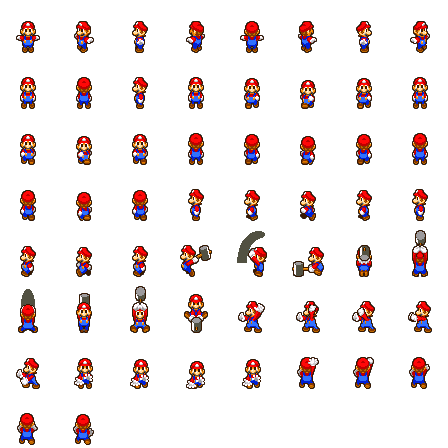
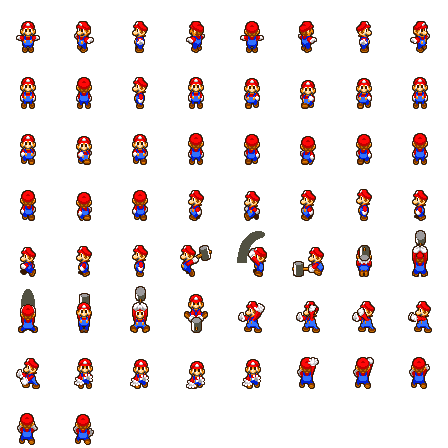
Round 5: both brothers' walk cycles reversed, Naruto up-profile, animated Strike Raid, Pokemon music
- Mario AND Luigi side walks were backwards (the user watched the probe
  captures live and caught Mario too): the sheet's side rows are authored
  right-to-left for both characters — both cycles now play reversed.
  Verified with in-game frame-sequence strips (tests/walkcycle_capture).
- Naruto's movement "spin" root-caused: his rip has no back-view frames,
  so walking up played FRONT frames and flickered against side frames on
  diagonals. Up movement now uses his side profile; flicker impossible.
- Strike Raid throws the real 11-frame spinning keyblade: new
  strike_raid_spin.png strip + animated-projectile support in
  _spawn_projectile (sprite_frames/sprite_fps on the special def).
- Pokemon dungeon music: user's track renamed to dungeon_pokemon.mp3 (the
  AudioManager naming) with a new per-track "start" offset — playback and
  every loop skip the first 30 seconds (loop_offset), per user request.
- Boot + parse green.

Scoped commit; concurrent session active in this checkout.

diff --git a/tools/prep_sora_v2.py b/tools/prep_sora_v2.py
@@ -186,7 +186,18 @@ def stage_build() -> None:
     with open(MANIFEST, "w", encoding="utf-8", newline="\n") as f:
         f.write(json.dumps(manifest, indent=1) + "\n")
     print(f"  roll preserved as frames {indices}")
-    # 4. Strike Raid projectile sprite from the special section
+    # 4. Strike Raid projectile: the full 11-frame spinning-keyblade strip
+    # (playtest round 5: a single static frame read as "not working")
+    spin_cells = [f"r0c{c}" for c in range(5, 16)]
+    boxes2 = [named[c] for c in spin_cells]
+    cw2 = max(b[2] - b[0] for b in boxes2)
+    ch2 = max(b[3] - b[1] for b in boxes2)
+    spin = Image.new("RGBA", (cw2 * len(boxes2), ch2), (0, 0, 0, 0))
+    for n, b in enumerate(boxes2):
+        crop = img.crop(b)
+        spin.alpha_composite(crop, (n * cw2 + (cw2 - crop.width) // 2, (ch2 - crop.height) // 2))
+    spin.save(BLADE.parent / "strike_raid_spin.png")
+    print(f"  spin strip {len(boxes2)}x1 cells of {cw2}x{ch2} -> strike_raid_spin.png")
     if BLADE_CELL:
         blade = img.crop(named[BLADE_CELL])
         blade.save(BLADE)

diff --git a/tools/prep_mario_luigi_v2.py b/tools/prep_mario_luigi_v2.py
@@ -93,9 +93,10 @@ def stage_grid() -> None:
 def _char_picks(p: str, melee_down_seq: list, special_down_seq: list) -> dict:
     dodge = ({"roll": [f"mr11c{c}" for c in range(8)]} if p == "m"
              else {"roll_side": [f"lr11c{c}" for c in range(4)]})
-    # playtest: Luigi's side cycle is authored right-to-left on the sheet —
-    # played forward it moonwalks; reverse the frame order (Mario's is fine)
-    side_cols = list(range(8)) if p == "m" else list(range(7, -1, -1))
+    # playtest rounds 3+5: BOTH brothers' side cycles are authored
+    # right-to-left on the sheet (user watched the probe run and confirmed
+    # Mario too) — play them reversed
+    side_cols = list(range(7, -1, -1))
     return {
         "cell": (56, 56),
         "anims": dodge | {

diff --git a/PLAYTEST_NOTES.md b/PLAYTEST_NOTES.md
@@ -53,6 +53,22 @@
   (`combat_hero.gd::dodge_cooldown`) — block + expiry proven headless
   (`tests/dodge_cooldown_probe.tscn`).
 
+### Round 5 (same day): walk cycles, Strike Raid animation, dungeon music
+
+- **Mario AND Luigi side walks played backwards** (user watched the probe
+  run live and caught Mario too): both sheet rows are authored
+  right-to-left — both cycles now reversed. Verified with in-game
+  frame-sequence strips (`tests/walkcycle_capture.tscn`).
+- **Naruto's "spin"** root-caused: his thin rip has NO back-view frames,
+  so up-movement played front frames and flickered against side frames on
+  diagonals. Up now uses the side profile — flicker impossible.
+- **Strike Raid** now throws the full 11-frame spinning keyblade
+  (strike_raid_spin.png; Projectile "sprite" + sprite_frames/sprite_fps
+  in heroes.json) instead of a single static frame.
+- **Pokémon dungeon music**: user's track wired as dungeon_pokemon.mp3
+  with a new per-track "start" offset (30s — intro skipped on play AND on
+  every loop via loop_offset) in AudioManager/music_manifest.
+
 ### Round 4 (same day): move_VFX drop wired into combat
 
 - User supplied `assets/shared/effects/move_VFX` (258 effect sets) with